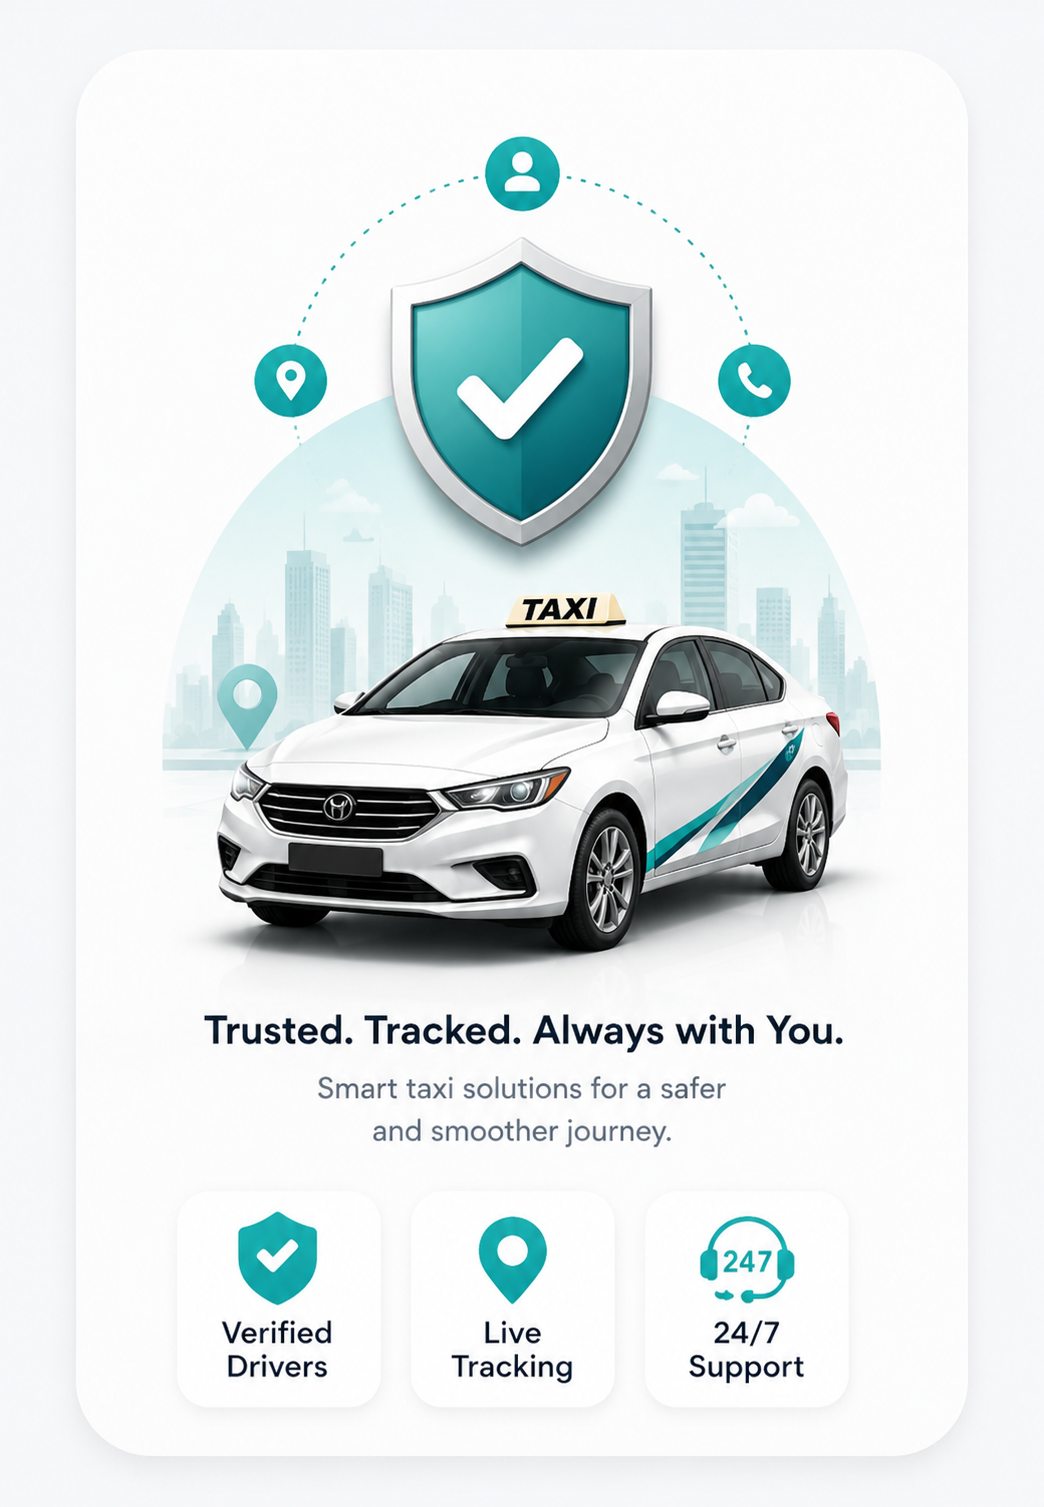
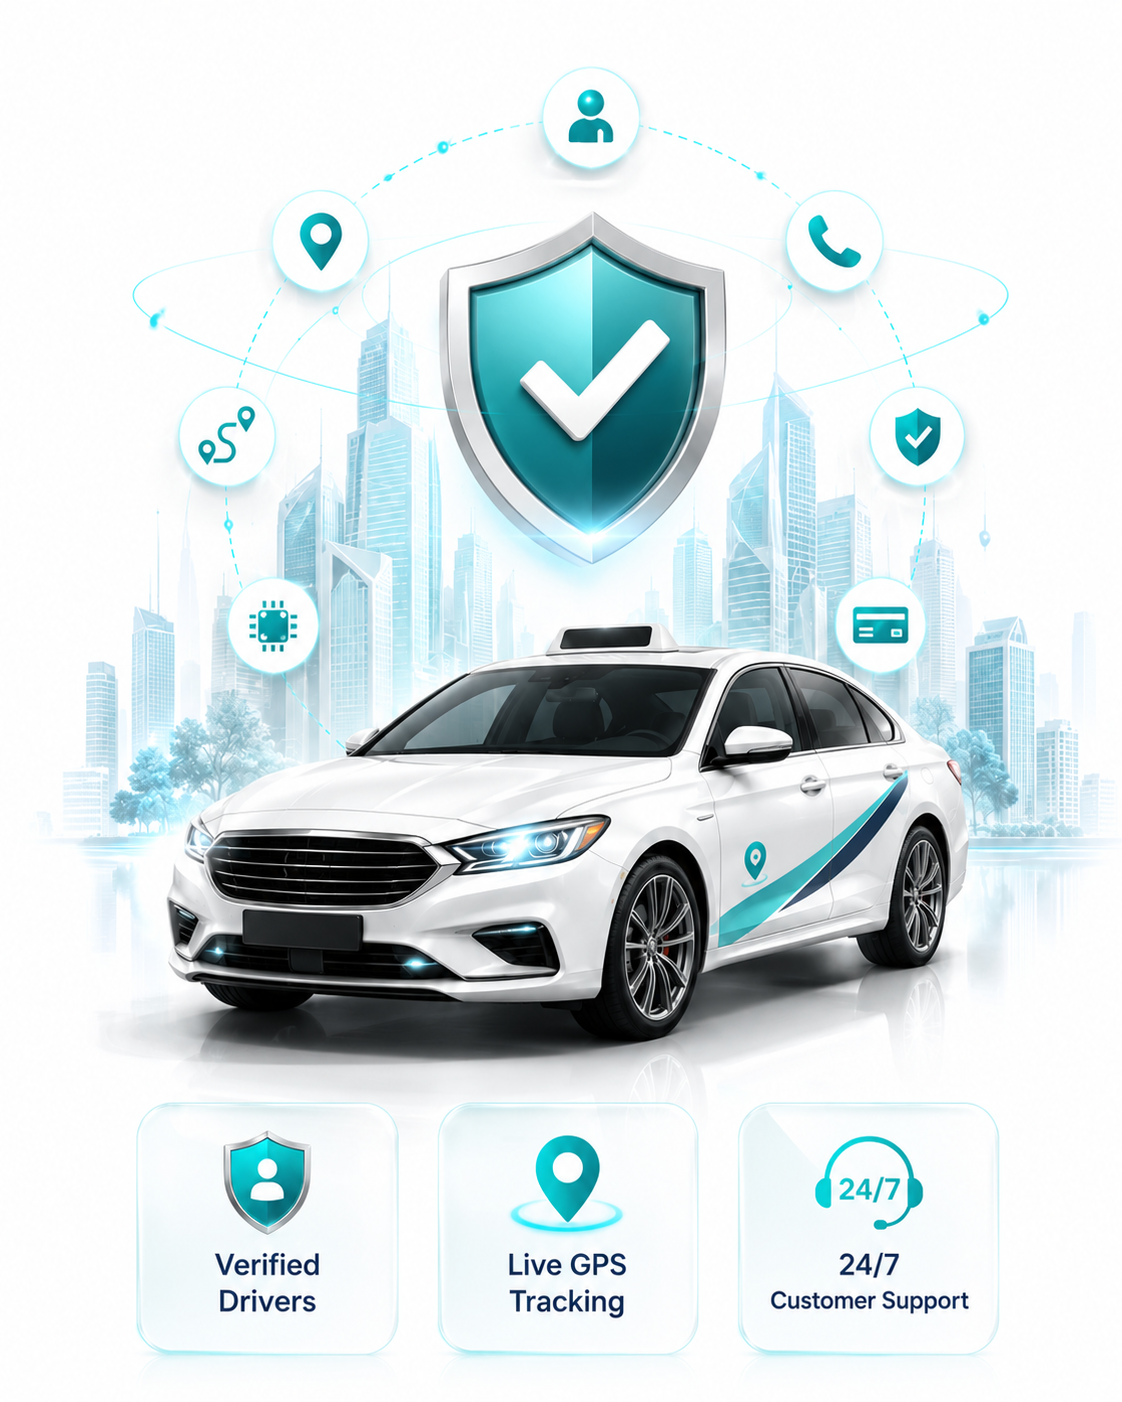
Login Page UI Changes Fix

diff --git a/src/pages/Login.jsx b/src/pages/Login.jsx
@@ -183,11 +183,11 @@ const Login = ({ setActivePage }) => {
 
       <section className="relative z-10 flex w-full max-w-2xl overflow-hidden rounded-3xl border border-slate-100 bg-white/98 backdrop-blur-sm shadow-2xl">
         {/* Left Side: Image */}
-        <div className="hidden md:flex md:w-1/2 items-center justify-center bg-slate-50 border-r border-slate-100 p-3">
+        <div className="hidden md:flex md:w-1/2 bg-slate-50 border-r border-slate-100 overflow-hidden items-center justify-center p-4">
           <img
             src="/login-banner.png"
             alt="Book Fast Taxi Login Banner"
-            className="max-h-[240px] object-contain rounded-2xl transition-transform hover:scale-102 duration-300"
+            className="w-full h-auto max-h-full object-contain transition-transform hover:scale-102 duration-300"
           />
         </div>
 
